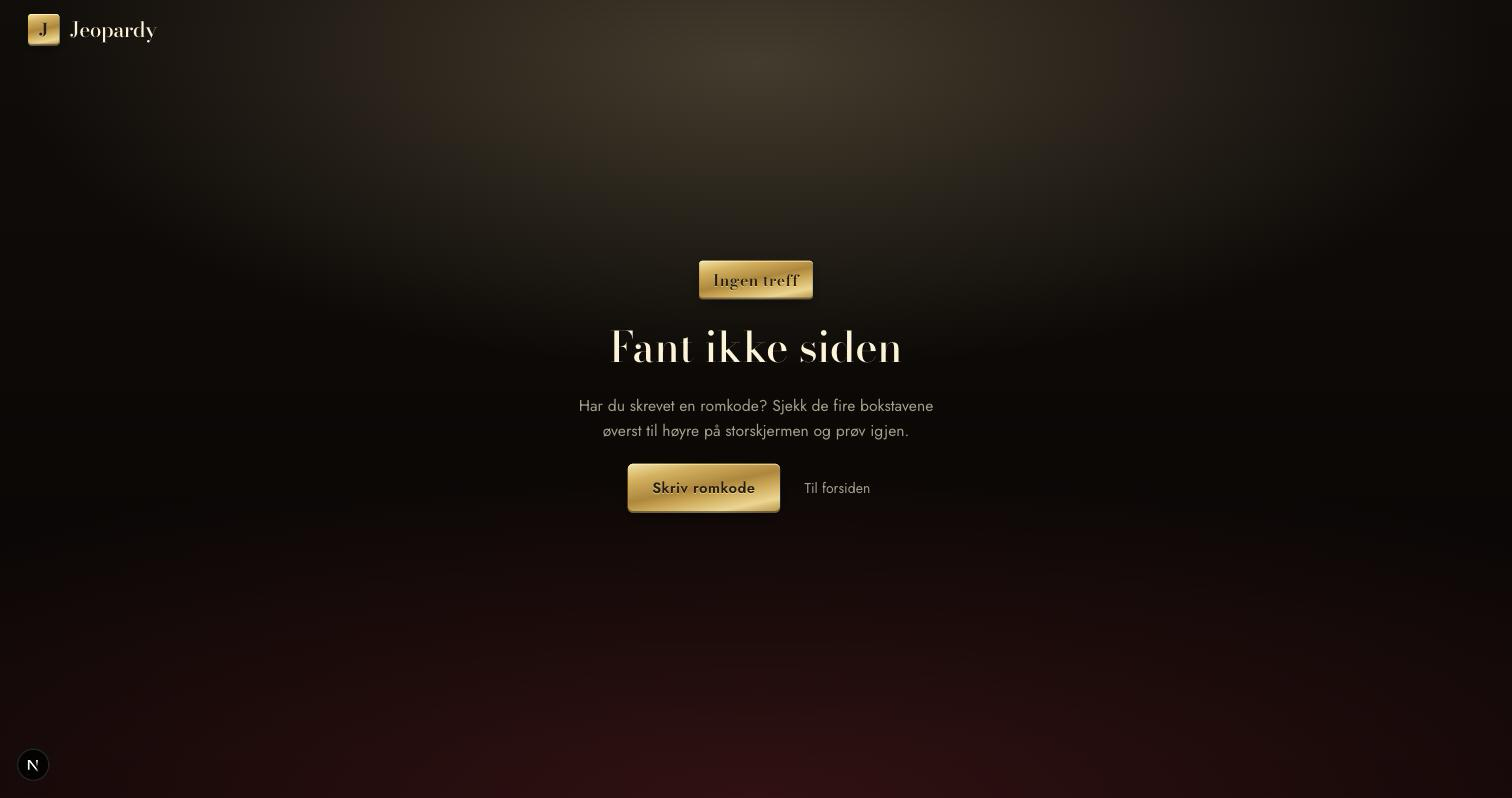
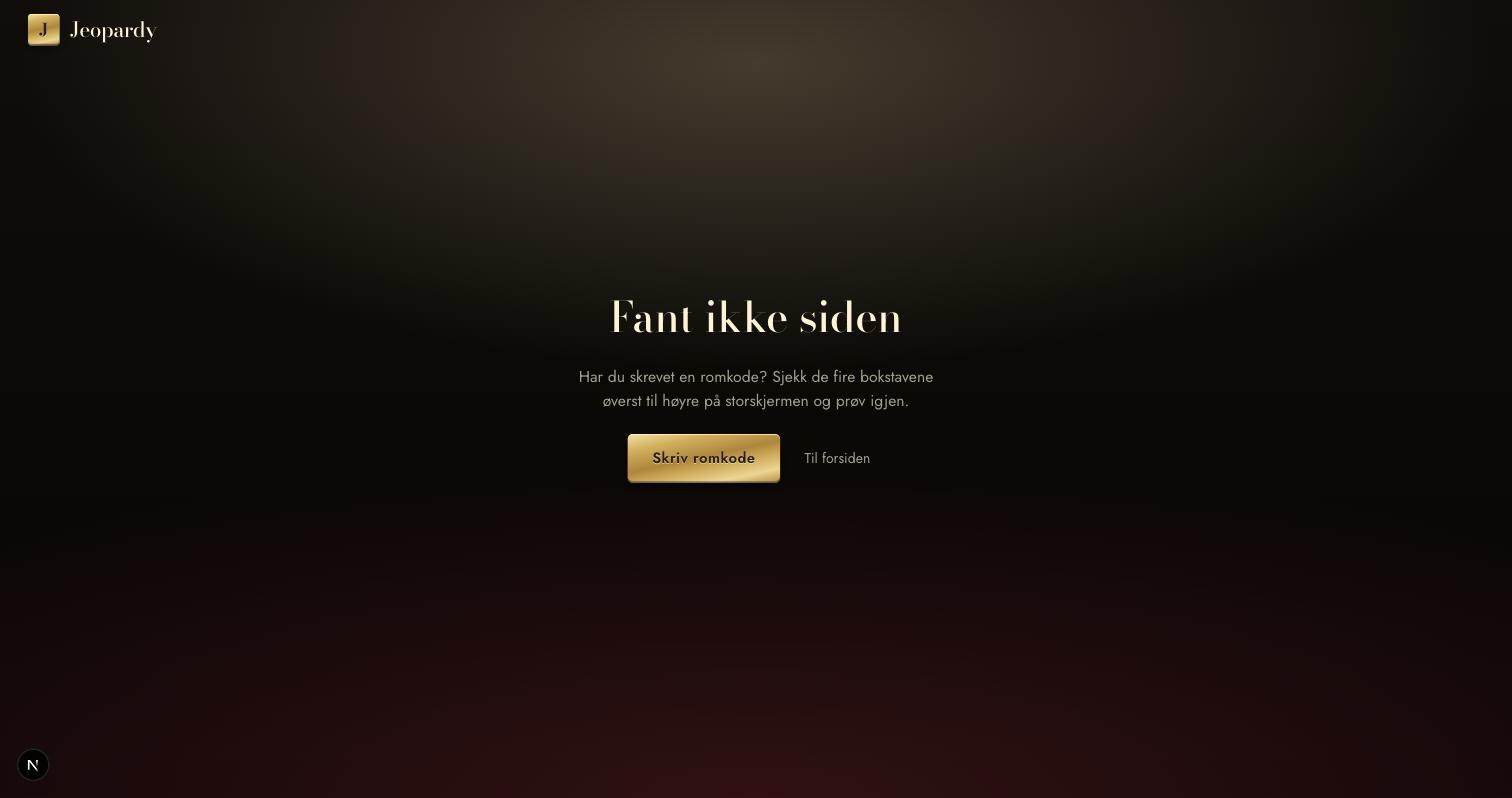
fix: mark clue used as soon as the answer is shown

Changed region(s): [[0.373, 0.3008, 0.6217, 0.6617]]

diff --git a/src/lib/game.ts b/src/lib/game.ts
@@ -45,8 +45,11 @@ export const reduceGame = (state: GameState, action: GameAction): GameState => {
   switch (action.type) {
     case "openClue":
       return { ...state, active: { clueId: action.clueId, phase: "question" } };
-    case "showAnswer":
-      return state.active ? { ...state, active: { ...state.active, phase: "answer" } } : state;
+    case "showAnswer": {
+      if (!state.active) return state;
+      const used = state.used.includes(state.active.clueId) ? state.used : [...state.used, state.active.clueId];
+      return { ...state, used, active: { ...state.active, phase: "answer" } };
+    }
     case "showQuestion":
       return state.active ? { ...state, active: { ...state.active, phase: "question" } } : state;
     case "closeClue": {
